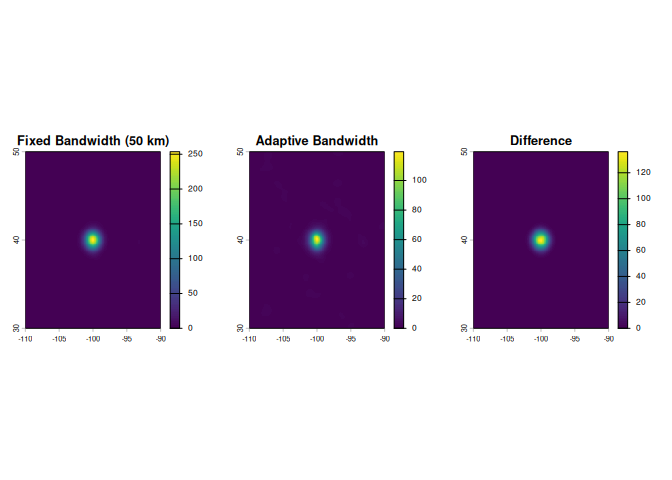
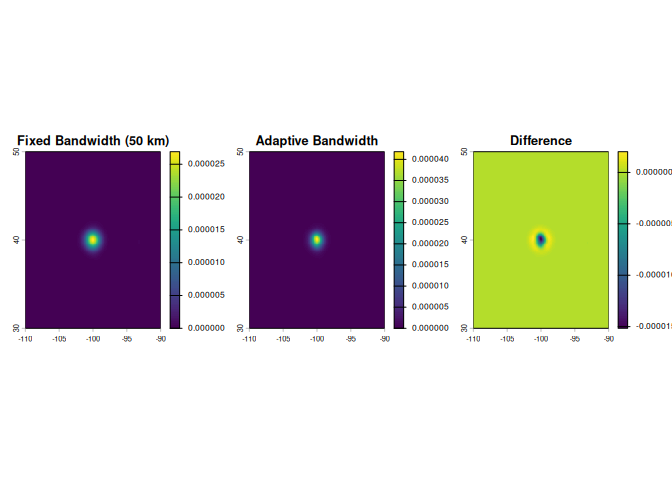
chore: release 0.2.0 docs and version

diff --git a/README.md b/README.md
@@ -38,7 +38,6 @@ crosses the international dateline seamlessly.
 ``` r
 library(geodensity)
 library(terra)
-#> terra 1.8.86
 
 # Simulate dense AIS data from a ship crossing the Pacific
 # Many points per location with jitter to simulate tracking updates and GPS uncertainty
@@ -112,7 +111,7 @@ dens <- kde_geodesic(pts_vec, template, bandwidth = 100)
 plot(dens, main = "AIS Ship Track Across Pacific\n(100 km bandwidth, ~148,000 positions)")
 ```
 
-<img src="man/figures/README-example-1.png" width="100%" />
+<img src="man/figures/README-example-1.png" alt="" width="100%" />
 
 The map demonstrates geodesic correctness: the large cluster centered
 exactly on +/-180 degrees appears split between the right edge (positive
@@ -143,11 +142,12 @@ hardware.
 ## Adaptive Bandwidth
 
 For datasets with highly variable point density, the `kde_adaptive()`
-function scales the bandwidth inversely with local density, producing
-finer detail in high-density regions and smoother estimates in sparse
-regions. This “balloon estimator” approach often yields better results
-for multi-scale point patterns (e.g., urban centers surrounded by sparse
-rural areas, marine hotspots in vast oceans).
+function shrinks the bandwidth where local density is high, bounded
+between `min_bandwidth` and `pilot_bandwidth`, producing finer detail in
+high-density regions and smoother estimates in sparse regions. This
+“balloon estimator” approach often yields better results for multi-scale
+point patterns (e.g., urban centers surrounded by sparse rural areas,
+marine hotspots in vast oceans).
 
 ``` r
 # Create sample data with variable density
@@ -182,12 +182,17 @@ plot(dens_adaptive, main = "Adaptive Bandwidth")
 plot(dens_fixed - dens_adaptive, main = "Difference")
 ```
 
-<img src="man/figures/README-adaptive-1.png" width="100%" />
+<img src="man/figures/README-adaptive-1.png" alt="" width="100%" />
 
 The algorithm uses a two-pass approach: (1) compute initial density with
-fixed pilot bandwidth, (2) scale bandwidth at each grid cell inversely
-with the pilot density, ensuring high-density regions get small kernels
-(detail) and sparse regions get large kernels (smoothness).
+fixed pilot bandwidth, (2) scale the bandwidth at each grid cell as
+`bw_i = min + (pilot - min) / (1 + sqrt(d_i / d_max))`, where `d_i` is
+the pilot density at the cell and `d_max` is the maximum pilot density
+over the template grid. The per-cell bandwidth lies in
+`[min_bandwidth, pilot_bandwidth]`: high-density cells get bandwidths
+near the minimum (detail), sparse cells get bandwidths near the pilot
+(smoothness). Because `d_max` is taken over the template, the same
+points on a different template can yield different bandwidths.
 
 ## Bandwidth Selection
 
@@ -228,7 +233,7 @@ dens_optimal <- kde_geodesic(pts_adaptive_vec, template_adaptive, bandwidth = bw
 plot(dens_optimal, main = paste("KDE with CV-selected bandwidth:", round(bw_cv$bandwidth_opt, 2), "km"))
 ```
 
-<img src="man/figures/README-bandwidth_optimization-1.png" width="100%" />
+<img src="man/figures/README-bandwidth_optimization-1.png" alt="" width="100%" />
 
 The function evaluates a sequence of candidate bandwidths and computes
 the leave-one-out log-likelihood for each. The bandwidth maximizing

diff --git a/NEWS.md b/NEWS.md
@@ -1,0 +1,24 @@
+# geodensity 0.2.0
+
+## New features
+
+* `kde_adaptive()`: adaptive-bandwidth geodesic KDE. A pilot pass sets a per-cell bandwidth, bounded by `min_bandwidth` and `pilot_bandwidth`.
+* `bandwidth_optimize()`: leave-one-out cross-validation (LOOCV) bandwidth selection, with `print.bandwidth_cv`.
+
+## Bug fixes
+
+* Search-box correction: neighbors were dropped at other latitudes. Fixed-bandwidth and adaptive values change. The adaptive path also changes through the pilot pass.
+* The LOOCV parallelism claim was false. The LOOCV loop is serial, and the documentation no longer says otherwise.
+* Unreachable empty-input guards in internal Rust functions were removed. No user-visible behavior changed.
+
+## Changes
+
+* KDE output is now probability density per km². It divides by `2*pi*bw^2*n`, so existing values change by that factor. For `kde_adaptive()`, the per-cell bandwidth is used in the factor.
+* LOOCV keeps the intensity normalization `1/(2*pi*bw^2)`, with no n. Its log-likelihood therefore differs from KDE output by a constant `log(n)`. Only the ranking across bandwidths is used.
+* `bandwidth_cv` objects have class `bandwidth_cv` only, not `c("bandwidth_cv", "list")`. They are still lists.
+* `bandwidth_min` and `bandwidth_max` are validated as scalars.
+* Haversine distance is consolidated on `geo`. LOOCV scores shift by at most about 1e-6 relative.
+
+## Known limitations
+
+* Grid points that enclose a pole (search half-width at or above 90 degrees) scan all data points. This is O(n) per grid point and slow at high latitude with large bandwidths.
